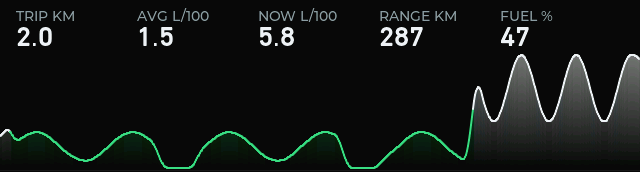
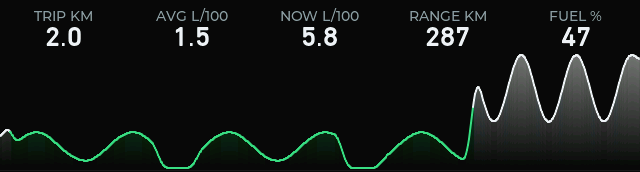
Efficiency screen: centre the stats in full-width columns
Claude-Session: https://claude.ai/code/session_01Wi2gegtCVfJxJKRk2AUrLz

diff --git a/firmware/src/ui/efficiency_ui.cpp b/firmware/src/ui/efficiency_ui.cpp
@@ -7,6 +7,7 @@
 #include <cstdint>
 #include <cstdio>
 #include <cstring>
+#include <initializer_list>
 
 namespace EfficiencyUi {
 
@@ -44,12 +45,12 @@ constexpr uint32_t kAnimRedrawMs = 100;  // redraw cap while the scale is moving
 constexpr uint8_t kFillMaxMix = 120;
 
 // Stat row: five montserrat_14 captions over dinnext_28_stat values, in
-// equal columns across the top, above the plot. Units live in the captions so
-// the values stay short enough for a column.
+// equal columns across the whole width, each caption and value centred in its
+// column. Units live in the captions so the values stay short enough.
 constexpr int16_t kStatCaptionY = 8;
 constexpr int16_t kStatValueY = 26;
 constexpr int kStatCount = 5;
-constexpr int16_t kStatPitch = (kScreenW - 2 * kEdgeMargin) / kStatCount; // 121
+constexpr int16_t kStatPitch = kScreenW / kStatCount; // 128
 
 enum Stat { StatDistance, StatAvg, StatNow, StatRange, StatFuel };
 const char *const kStatCaptions[kStatCount] = {"TRIP KM", "AVG L/100", "NOW L/100", "RANGE KM",
@@ -277,11 +278,17 @@ void build(lv_obj_t *parent) {
     // Created after the graph so they stay on top when the line runs up
     // under them.
     for (int i = 0; i < kStatCount; i++) {
-        int16_t x = static_cast<int16_t>(kEdgeMargin + i * kStatPitch);
-        makeLabel(root, kStatCaptions[i], &lv_font_montserrat_14, Colors::kMutedText, x,
-                  kStatCaptionY, AnchorLeft);
+        int16_t x = static_cast<int16_t>(i * kStatPitch);
+        lv_obj_t *caption = makeLabel(root, kStatCaptions[i], &lv_font_montserrat_14,
+                                      Colors::kMutedText, x, kStatCaptionY, AnchorLeft);
         g_statValue[i] = makeLabel(root, "--", &dinnext_28_stat, Colors::kText, x, kStatValueY,
                                    AnchorLeft);
+        // A fixed column-wide box with centred text keeps each value centred
+        // whatever its digit count, with nothing to reposition on update.
+        for (lv_obj_t *l : {caption, g_statValue[i]}) {
+            lv_obj_set_width(l, kStatPitch);
+            lv_obj_set_style_text_align(l, LV_TEXT_ALIGN_CENTER, 0);
+        }
     }
 }
 
